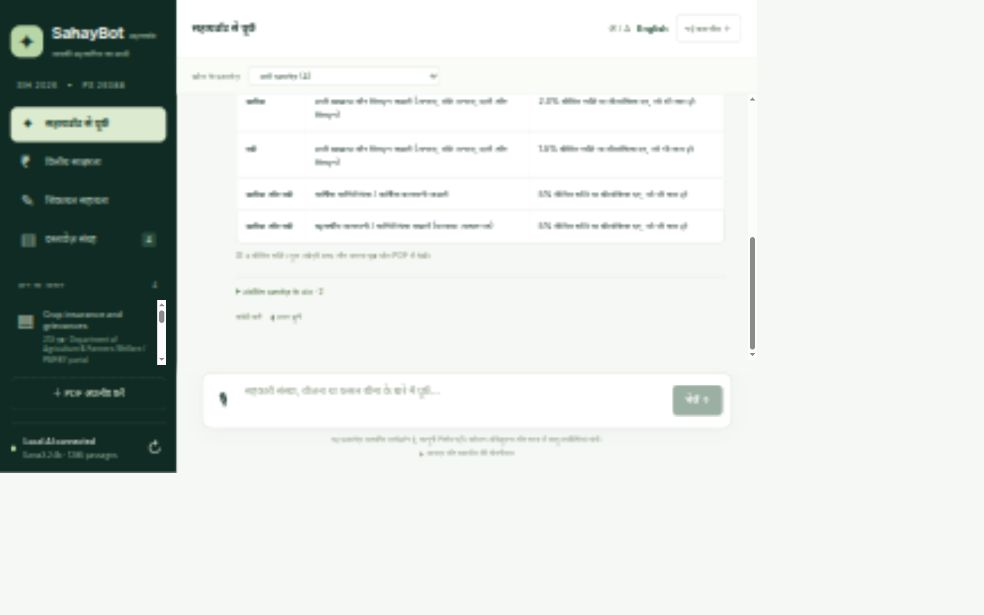
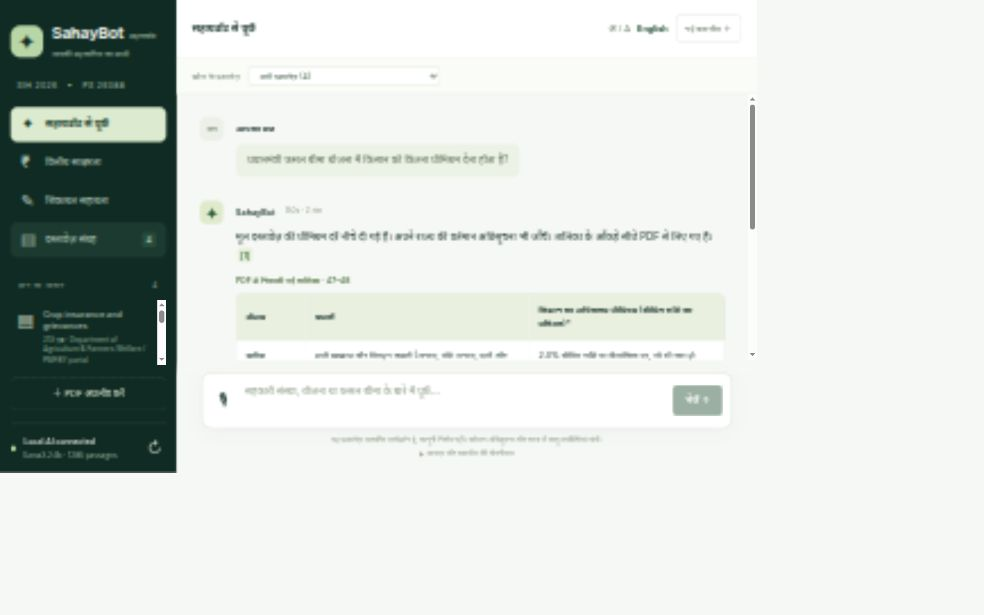
Polish source table layout and use CPU inference dependencies in CI

diff --git a/frontend/src/index.css b/frontend/src/index.css
@@ -1202,7 +1202,7 @@ nav {
   }
 }
 .document-table { margin-top: 16px; }
-.table-caption { font-size: 10px; font-weight: 600; color: #5c7c4f; margin-bottom: 8px; }
+.source-table-label { font-size: 10px; font-weight: 600; color: #5c7c4f; margin-bottom: 8px; }
 .table-scroll { overflow-x: auto; border: 1px solid #d4e0c9; border-radius: 8px; }
 .document-table table { width: 100%; min-width: 390px; border-collapse: collapse; font-size: 11px; line-height: 1.6; }
 .document-table th { background: #e9f0e0; text-align: left; font-weight: 600; padding: 12px; }

diff --git a/frontend/src/App.tsx b/frontend/src/App.tsx
@@ -220,7 +220,7 @@ function SourceTable({
 }) {
   return (
     <div className="document-table">
-      <div className="table-caption">
+      <div className="source-table-label">
         {lang === "HI"
           ? "PDF से निकाली गई तालिका"
           : "Table extracted from the PDF"}{" "}

diff --git a/README.md b/README.md
@@ -39,6 +39,8 @@ python -m backend.ingest
 ./scripts/run_demo.sh
 ```
 
+On a Linux machine without an NVIDIA GPU, installing CPU PyTorch first avoids downloading large CUDA dependencies: `pip install torch --index-url https://download.pytorch.org/whl/cpu`, then install the backend requirements.
+
 Open **http://localhost:5173**. Ollama must be running (`ollama serve` if your installation does not run it as a service). Initial embedding download/indexing can take a few minutes. Subsequent starts reuse the index. The API is at http://127.0.0.1:8000/docs.
 
 Alternatively use two terminals:
